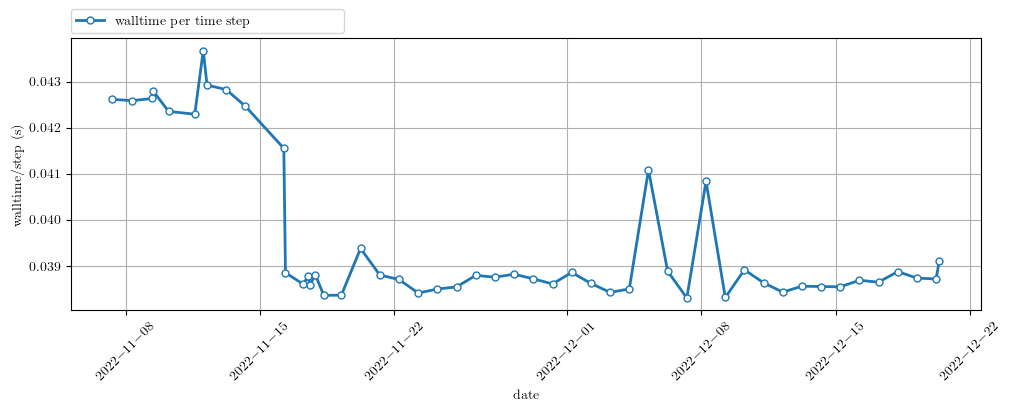
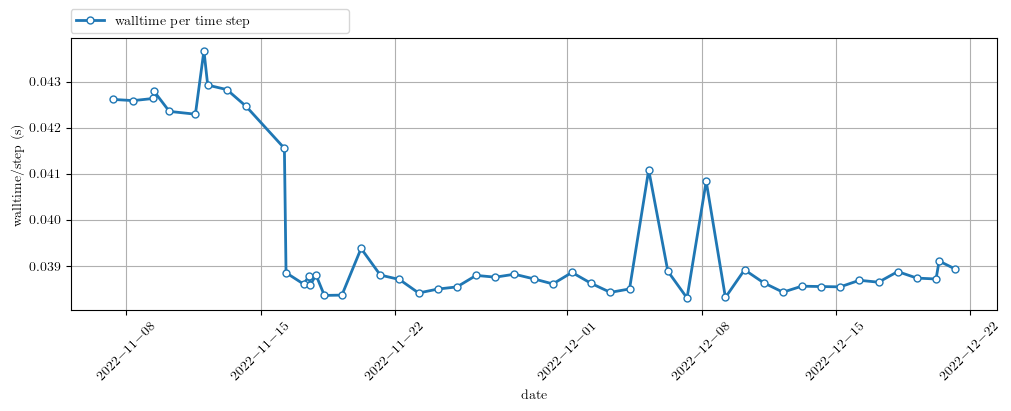
Automatic timing summary commit: lassen708 2022-12-21 05:01

diff --git a/README.md b/README.md
@@ -1,4 +1,4 @@
-Timings last ran on: 2022.12.20
+Timings last ran on: 2022.12.21
 
 # Status of production timings
 
